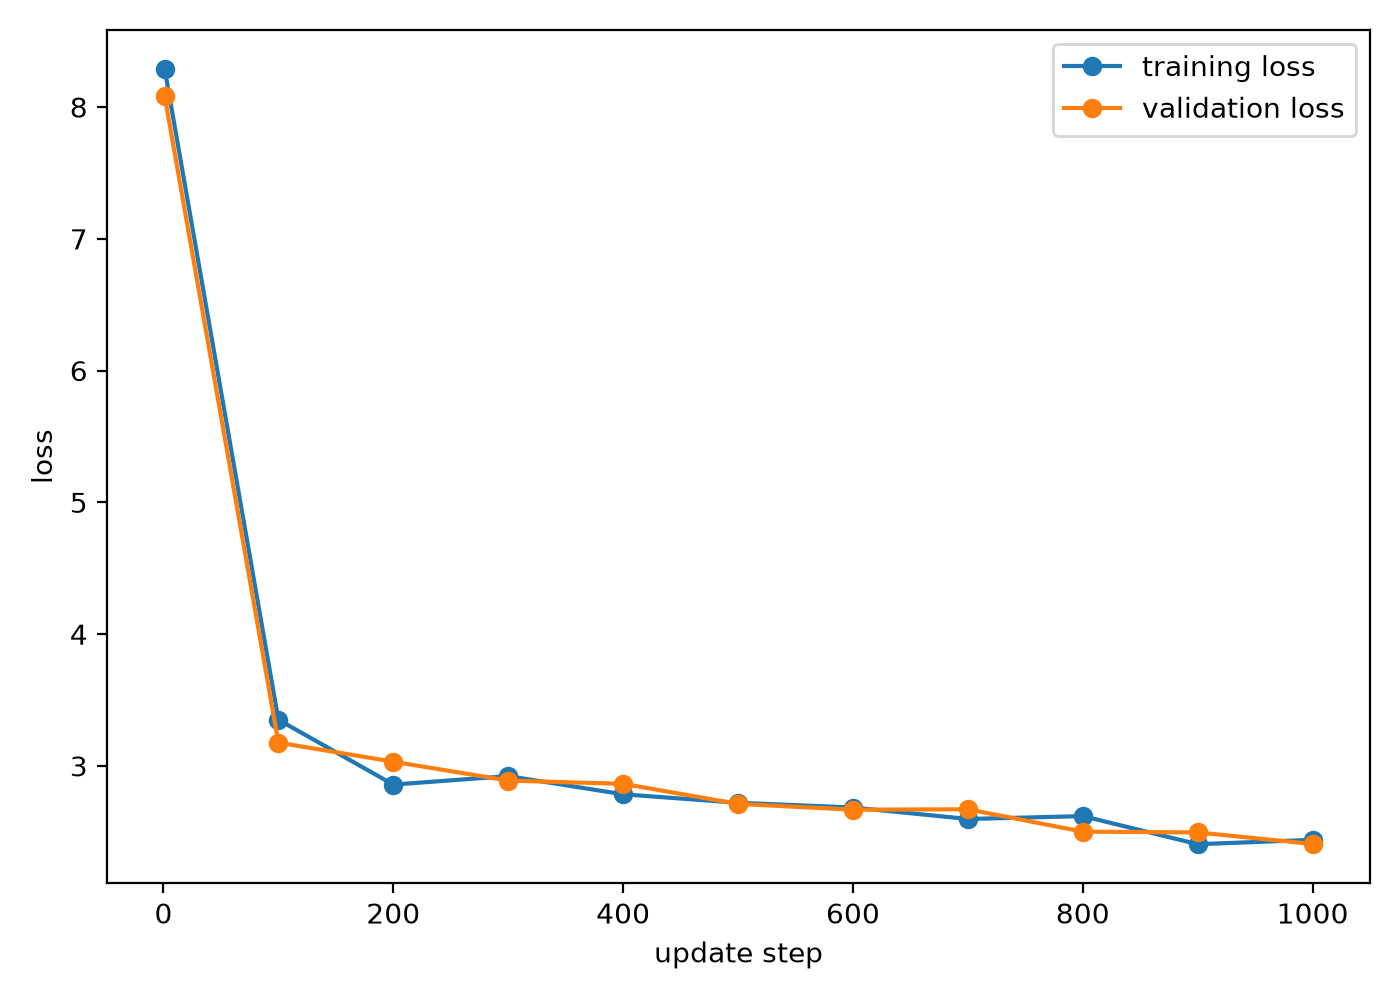
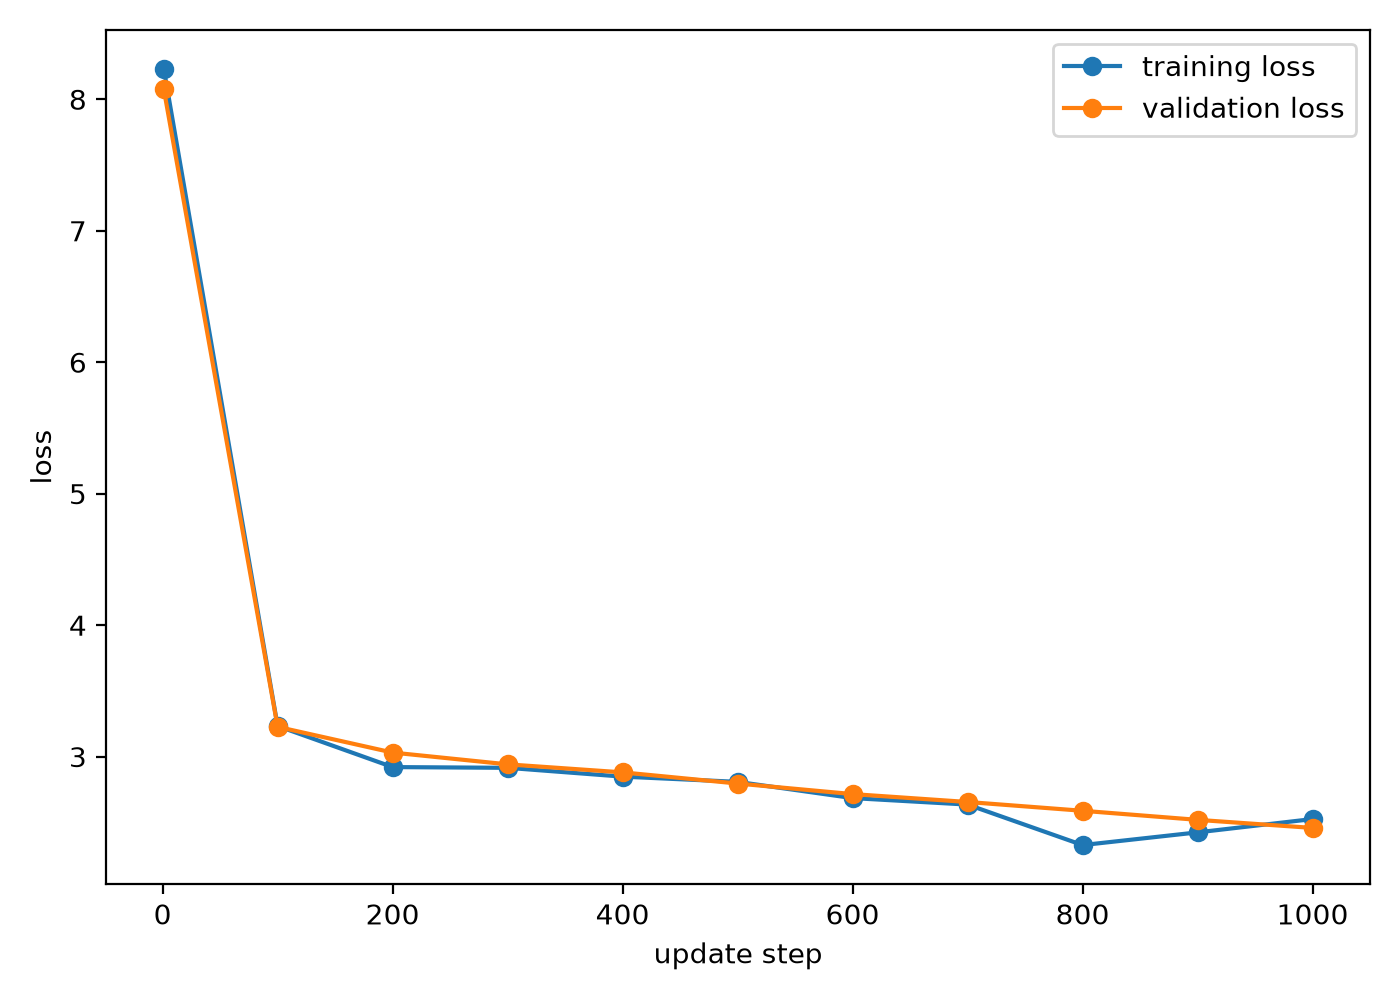
updated to use a set seed for testing. changed documentation accordingly

diff --git a/src/final_project/assignment3_slm_files/slm.py b/src/final_project/assignment3_slm_files/slm.py
@@ -2,6 +2,7 @@
 # Small Language Model Skeleton
 
 from pathlib import Path
+import random
 # for importing the data for training
 import numpy as np
 import matplotlib.pyplot as plt
@@ -17,9 +18,10 @@ from final_project.morpheme_tokenizer import MorphemeTokenizer
 #numMerges - int - number of BPE merges
 #bpeTrainStories - int or None - number of training stories to use for BPE
 #trainStoryLimit - int or None - number of training stories to keep
+#seed - int - random seed for the train/validation/test split
 #return - encoded training data, encoded validation data, and token maps
-def prepData(stories: list[str], numMerges: int, bpeTrainStories: int | None, trainStoryLimit: int | None) -> tuple[list[list[int]], list[list[int]], dict[str, int], dict[int, str]]:
-  trainStories, validationStories, testStories = splitStories(stories)
+def prepData(stories: list[str], numMerges: int, bpeTrainStories: int | None, trainStoryLimit: int | None, seed: int) -> tuple[list[list[int]], list[list[int]], dict[str, int], dict[int, str]]:
+  trainStories, validationStories, testStories = splitStories(stories, seed=seed)
   if trainStoryLimit is not None: trainStories = trainStories[:trainStoryLimit]
 
   bpeStories = trainStories
@@ -54,9 +56,12 @@ def prepData(stories: list[str], numMerges: int, bpeTrainStories: int | None, tr
 #contextSize - int - context length
 #evalIters - int - number of batches to average over
 #device - torch device - device on which tensors should be stored
+#seed - int - random seed for picking the batches
 #return - float - average loss over sampled batches
-def estimateLoss(model: TransformerLM, data: list[list[int]], batchSize: int, contextSize: int, evalIters: int, device: torch.device) -> float:
-  rng = np.random.default_rng()
+def estimateLoss(model: TransformerLM, data: list[list[int]], batchSize: int, contextSize: int, evalIters: int, device: torch.device, seed: int) -> float:
+  # a fresh generator with the same seed on every call, so each
+  # evaluation scores the model on the same validation batches
+  rng = np.random.default_rng(seed)
   # TransformerLM is a subclass of Torch
   # so the eval method is coming from that.
   model.eval()
@@ -85,10 +90,11 @@ def estimateLoss(model: TransformerLM, data: list[list[int]], batchSize: int, co
 #device - torch device - device on which tensors should be stored
 #evalInterval - int - number of updates between loss estimates
 #evalIters - int - number of batches to average for validation loss
+#seed - int - random seed for picking the batches
 #return - list of dicts - training and validation losses over time
-def train(model: TransformerLM, trainData: list[list[int]], validationData: list[list[int]], steps: int, batchSize: int, contextSize: int, learningRate: float, device: torch.device, evalInterval: int = 100, evalIters: int = 5) -> list[dict[str, float]]:
+def train(model: TransformerLM, trainData: list[list[int]], validationData: list[list[int]], steps: int, batchSize: int, contextSize: int, learningRate: float, device: torch.device, seed: int, evalInterval: int = 100, evalIters: int = 5) -> list[dict[str, float]]:
   optimizer = torch.optim.AdamW(model.parameters(), lr=learningRate)
-  rng = np.random.default_rng(123)
+  rng = np.random.default_rng(seed)
   history: list[dict[str, float]] = []
 
   for step in range(steps):
@@ -110,7 +116,7 @@ def train(model: TransformerLM, trainData: list[list[int]], validationData: list
     optimizer.step()
 
     if step == 0 or (step + 1) % evalInterval == 0:
-      validationLoss = estimateLoss(model, validationData, batchSize, contextSize, evalIters, device)
+      validationLoss = estimateLoss(model, validationData, batchSize, contextSize, evalIters, device, seed)
       
       # step + 1 because it
       # starts at 0
@@ -225,8 +231,23 @@ def runShapeTest() -> None:
 ### Main ###
 ############
 def main() -> None:
-  torch.manual_seed(123)
-  device = torch.device("cuda" if torch.cuda.is_available() else "mps" if torch.backends.mps.is_available() else "cpu")
+  # one seed for every random choice: the story split, model weight
+  # initialization, training and validation batches, and sampling
+  seed = 123
+  random.seed(seed)
+  np.random.seed(seed)
+  torch.manual_seed(seed)  # also seeds CUDA and MPS
+
+  # GPUs (CUDA, MPS) can add floating point numbers in a different
+  # order on each run, so the losses drift apart after a few hundred
+  # steps even with the same seed. The CPU gives the exact same
+  # numbers every run. Set this to False to train on a GPU instead.
+  deterministic = True
+  if deterministic:
+    device = torch.device("cpu")
+    torch.use_deterministic_algorithms(True)
+  else:
+    device = torch.device("cuda" if torch.cuda.is_available() else "mps" if torch.backends.mps.is_available() else "cpu")
 
   dataPath = str(Path(__file__).resolve().parents[2] / "data" / "tinyStories.jsonl")
   maxStories: int = 1000
@@ -259,7 +280,7 @@ def main() -> None:
       if maxStories is not None: stories = stories[:maxStories]
     else: stories = loadStoriesFromJsonl(dataPath, maxStories=maxStories)
 
-    trainStoriesCount, validationStoriesCount, testStoriesCount = splitStories(stories)
+    trainStoriesCount, validationStoriesCount, testStoriesCount = splitStories(stories, seed=seed)
 
     print(f"training stories: {len(trainStoriesCount)}")
     print(f"validation stories: {len(validationStoriesCount)}")
@@ -268,7 +289,8 @@ def main() -> None:
     trainData, validationData, tokenToID, idToToken = prepData(stories,
                                                                numMerges=numMerges,
                                                                bpeTrainStories=bpeTrainStories,
-                                                               trainStoryLimit=trainStories)
+                                                               trainStoryLimit=trainStories,
+                                                               seed=seed)
 
   # Set up the Transformer model
   if True:
@@ -293,6 +315,7 @@ def main() -> None:
                     contextSize=contextSize,
                     learningRate=learningRate,
                     device=device,
+                    seed=seed,
                     evalInterval=evalInterval,
                     evalIters=evalIters)
 

diff --git a/README.md b/README.md
@@ -24,7 +24,47 @@ Calling `.parse()` on every word is too slow, so the tokenizer works like this:
 4. **Tokenize text** by splitting it into sentences (NLTK `sent_tokenize`) and wrapping each one in `<s>` … `</s>`. Each word is split into morphemes with its original casing kept, and punctuation becomes its own token.
 5. **Words not in the database** are kept whole for now (`handleUndefined`). They are added to the dictionary and saved.
 
-> **Note:** The next two sections ("Segmenting unknown words with an LLM" and "Using `MorphemeTokenizer` in the SLM") were written by an LLM to give direction for the implementation. They are suggestions, not decisions the team has made or code that exists yet, so check them before relying on them.
+### `MorphemeTokenizer` in the SLM (Harsh, commit `571a2a2`)
+
+`prepData` in [slm.py](src/final_project/assignment3_slm_files/slm.py) now tokenizes with `MorphemeTokenizer` instead of BPE:
+
+```python
+morphemeTokenizer = MorphemeTokenizer(str(Path(__file__).resolve().parents[3] / "data"))
+trainStories_tokens = morphemeTokenizer.tokenize(trainStories)
+validStories_tokens = morphemeTokenizer.tokenize(validationStories)
+```
+
+The rest of the pipeline is unchanged: `buildTokenMaps`, `encode`, `genBatch`, `train`, and `TransformerLM`. The existing `formatSample` already prints morpheme output correctly, because it only joins the tokens, turns `</s>` into a newline, and removes `</w>`, which never appears in morpheme output.
+
+Current state of the code:
+- **The BPE path was replaced, not kept behind a switch.** `learnBPE` and `tokenizeStories` are still imported, but nothing calls them. The `numMerges` and `bpeTrainStories` arguments to `prepData` are now unused. To get a BPE baseline, we have to go back to the `slm.py` from before `571a2a2`.
+- **The data comes from two different folders.** The morpheme dictionary is read from the repo-root `data/` folder (`parents[3]`). `main` still reads the stories from `src/data/tinyStories.jsonl` (`parents[2]`).
+
+### Reproducible runs
+
+All random choices in `slm.py` use one seed (`seed = 123` in `main`): the train/validation/test split, the model's starting weights, the training batches, the validation batches, and the sampling of generated text. Every validation estimate uses the same batches, so the validation losses at different steps are measured on the same text.
+
+By default the SLM runs on the CPU with `torch.use_deterministic_algorithms(True)` (`deterministic = True` in `main`). Two runs give exactly the same output. The GPU (CUDA or MPS) isn't reproducible even with the seed: on MPS the losses started to differ by about 0.001 after step 200, because the GPU doesn't always add numbers in the same order. For this small model, the CPU is also slightly faster (about 10 s per run). Set `deterministic = False` to train on a GPU.
+
+### Morpheme run results
+
+See [results/morpheme_run.md](results/morpheme_run.md) for the full record and [the loss plot](results/slm_loss_morpheme.png). The run used 1,000 TinyStories split 800/100/100, a 2-layer model with 64-dimensional embeddings, 4 heads, a context size of 32, and 1,000 training steps.
+
+| Metric | Value |
+|---|---|
+| Vocabulary size | 3,146 |
+| Validation loss at step 1 | 8.08 (ln 3146 = 8.05) |
+| Validation loss at step 1000 | 2.46 |
+
+At step 1, the validation loss is close to the natural log of the vocabulary size, which is the loss of a uniform guess. That's what an untrained model should give.
+
+What the run showed:
+- **No overfitting.** The validation loss stays close to the training loss for all 1,000 steps.
+- **Some generated words attach the wrong ending to a root**, such as "scareed", "curiouss" and "relieveful". This likely comes from how roots ending in "e" are split: "scared" becomes `scare` + `d`, while "laughed" becomes `laugh` + `ed`. The past tense ends up as two different tokens, so the model can attach an ending to a root that needs a different one.
+- **The run can't be compared with BPE yet.** Per-token loss depends on the tokenizer. A fair comparison needs the same split for both tokenizers and a per-character measure such as bits per character (see [Compare fairly](#using-morphemetokenizer-in-the-slm) below).
+- **The number of `<unk>` tokens wasn't measured.** Words that appear only in validation become `<unk>`, which is easy to predict, so the morpheme model's loss may look better than it really is.
+
+> **Note:** The next two sections ("Segmenting unknown words with an LLM" and "Using `MorphemeTokenizer` in the SLM") were written by an LLM to give direction for the implementation. They are suggestions, not decisions the team has made, so check them before relying on them. Steps that are already in the code are marked **(done)**.
 
 ### Segmenting unknown words with an LLM
 
@@ -52,7 +92,7 @@ A cheap model is fine for this. TinyStories uses a small vocabulary, so the list
 
 The SLM in [src/final_project/assignment3_slm_files/](src/final_project/assignment3_slm_files/) already has the right shape for this. `MorphemeTokenizer.tokenize(stories)` returns one token list per story, with `<s>` … `</s>` around each sentence. That is the same format as `tokenizeStories(stories, merges)`, the BPE function `prepData` calls in [slm.py](src/final_project/assignment3_slm_files/slm.py). The transformer itself doesn't change: it only sees integer IDs and a `vocab_size`.
 
-1. **Swap the tokenizer in `prepData`.** Replace `learnBPE` and the two `tokenizeStories` calls:
+1. **(done)** **Swap the tokenizer in `prepData`.** Replace `learnBPE` and the two `tokenizeStories` calls:
    ```python
    from final_project.morpheme_tokenizer import MorphemeTokenizer
 
@@ -61,25 +101,31 @@ The SLM in [src/final_project/assignment3_slm_files/](src/final_project/assignme
    validStories_tokens = tokenizer.tokenize(validationStories)
    ```
    Everything after that stays the same: `buildTokenMaps`, `encode`, `genBatch`, `train`, and `TransformerLM(vocab_size=len(tokenToID), ...)`.
-2. **Add a `tokenizer` switch** (`"bpe"` or `"morpheme"`) to `prepData`/`main` rather than deleting the BPE path. Both models can then be trained with the same settings, which is what the comparison needs.
-3. **Fix the output formatting.** `formatSample` removes the BPE `</w>` marker. Morpheme tokens keep spaces and punctuation as their own tokens, so `"".join(tokens)` already rebuilds the text. Only `<s>`/`</s>` need handling. A `formatMorphemeSample` (or a branch in `formatSample`) covers this.
+2. **Add a `tokenizer` switch** (`"bpe"` or `"morpheme"`) to `prepData`/`main` and bring back the BPE path that `571a2a2` removed. Both models can then be trained with the same settings, which is what the comparison needs.
+3. **(done, no change needed)** **Output formatting.** The existing `formatSample` already works for morpheme tokens (see above).
 4. **Expect a different vocabulary and sequence length.**
-   - The vocabulary comes from every distinct morpheme, space, punctuation mark, and whole unknown word in the training set, not from a fixed merge count. Print `len(tokenToID)` for both tokenizers.
+   - The vocabulary comes from every distinct morpheme, space, punctuation mark, and whole unknown word in the training set, not from a fixed merge count. The morpheme run had 3,146 tokens. Print `len(tokenToID)` for both tokenizers.
    - Casing is kept, so `The` and `the` are different tokens. Lowercasing everything, or adding a `<cap>` marker token before capitalized words, would shrink the vocabulary.
    - Spaces are tokens, so a 32-token context covers fewer words than it does with BPE. Either raise `contextSize` or attach the space to the next word's first morpheme (`" un"`, `"happi"`, `"ness"`) to cut the sequence length roughly in half.
    - Validation morphemes that never appear in training map to `<unk>`. The LLM step above and the character fallback reduce how often that happens.
-5. **Compare fairly.** Raw cross-entropy per token isn't comparable across tokenizers, because the tokens differ in size. Report **bits per character**: total validation loss (in nats) ÷ number of characters in the validation text ÷ ln 2. Use the same stories, split seed, model size, and training steps for both runs.
+5. **Compare fairly.** Raw cross-entropy per token isn't comparable across tokenizers, because the tokens differ in size. Report **bits per character**: total validation loss (in nats) ÷ number of characters in the validation text ÷ ln 2. Use the same stories, split seed, model size, and training steps for both runs. **(seed done)**: `slm.py` now passes one seed to the split and to every other random choice (see [Reproducible runs](#reproducible-runs)).
    - **Add a morpheme-heavy test set.** Besides the random TinyStories split, pick or build test data where a large share of words are found in the morpheme dictionary. Good candidates are words with clear prefixes and suffixes (`un-`, `re-`, `-ness`, `-ful`, `-ly`). A simple filter: keep the stories or sentences where most words are in `dictionary.json` and split into two or more morphemes. The best case is words whose morphemes appear in training but whose full word does not (training has `kind` and `-ness`, the test set has `kindness`). This is where the morpheme model should do best, because BPE has no reason to split such a word at its real boundaries.
    - Report results on **both** test sets. The random split shows how the model does on ordinary text. The morpheme-heavy set shows the case where morphemes should help. On its own, a test set picked to favor morphemes would overstate the benefit, so it shouldn't be the only result.
-6. **Check the data path.** `slm.py` reads `Path(__file__).resolve().parents[2] / "data"`, which resolves to `src/data/`, not the repo-root `data/` folder. Use `parents[3]` so the stories and the morpheme dictionary live in the same git-ignored `data/` folder.
+6. **(half done)** **Check the data path.** The morpheme dictionary now uses `parents[3]`, which is the repo-root `data/` folder. `main` still reads the stories from `parents[2] / "data"`, which is `src/data/`. Change that to `parents[3]` as well, so the stories and the dictionary live in the same git-ignored `data/` folder.
 
 ## Plan
 
-**For next week:** plug `MorphemeTokenizer` into the SLM from a prior assignment (see [Using `MorphemeTokenizer` in the SLM](#using-morphemetokenizer-in-the-slm)).
+**Done:**
+- Plugged `MorphemeTokenizer` into the SLM from a prior assignment and recorded a run (see [Morpheme run results](#morpheme-run-results)).
+- Seeded every random choice and made runs reproducible on the CPU (see [Reproducible runs](#reproducible-runs)).
+
+**Next:**
+- Bring back BPE behind a `tokenizer` switch and report bits per character, so the two tokenizers can be compared with the same seed.
+- Count how many validation tokens become `<unk>`.
+- Look at how the tokenizer splits roots ending in "e" (`scare` + `d` vs. `laugh` + `ed`).
 
 **Future steps:**
 - Use an LLM to segment words the database can't resolve (see [Segmenting unknown words with an LLM](#segmenting-unknown-words-with-an-llm)).
-- Compare a morpheme-based model with a token-based (BPE) model.
 - Try architecture tweaks.
 
 ## Setup
@@ -100,4 +146,10 @@ The project uses **[uv](https://docs.astral.sh/uv/)**, a fast Python package and
   python -c "import nltk; nltk.download('punkt_tab')"
   ```
 - Run a script: `uv run python src/final_project/morpheme_library_testing.py`. The first run downloads the morpheme database into `data/`.
+- Download TinyStories for the SLM (the command may print an error, but check `src/data/`, because the file is often downloaded anyway):
+  ```sh
+  mkdir -p src/data
+  uv run python -c "from final_project.assignment3_slm_files.tinyStoriesPipeline import downloadTinyStoriesPrefix; print(downloadTinyStoriesPrefix('src/data/tinyStories.jsonl', size=10000))"
+  ```
+- Train the SLM with the morpheme tokenizer: `uv run python src/final_project/assignment3_slm_files/slm.py`. The first run builds `data/dictionary.json`. The loss plot is saved as `slm_loss.png` in the folder you run it from.
 - Add a dependency: `uv add <package>`. This updates both `pyproject.toml` and `uv.lock`, so commit both files.

diff --git a/results/morpheme_run.md b/results/morpheme_run.md
@@ -12,54 +12,69 @@ uv run python -c "from final_project.assignment3_slm_files.tinyStoriesPipeline i
 
 You may get an error, but check in the data folder, it may have downloaded anyway.
 
-## Results
+## Run (November 17, 2026)
+
+This run uses `seed = 123` for every random choice in `slm.py`: the train/validation/test split, the model's starting weights, the training batches, the validation batches, and the sampling of generated text. It runs on the CPU with `torch.use_deterministic_algorithms(True)` (`deterministic = True` in `main`).
+
+**Running it twice gives exactly the same output.** We checked this by diffing the output of two runs. A run takes about 10 seconds on an Apple Silicon CPU.
+
+### Setup
+
+- **Data:** the first 1,000 stories of `src/data/tinyStories.jsonl`, split 800 / 100 / 100 into training, validation and test with seed 123.
+- **Model:** `TransformerLM` with `n_embed=64`, `n_head=4`, `n_layer=2` and a context size of 32.
+- **Training:** 1,000 steps of AdamW, batch size 16, learning rate 1e-3.
+- **Evaluation:** the training loss is from the single batch at that step. The validation loss is averaged over 5 batches every 100 steps. Every evaluation uses the same 5 validation batches, so the validation losses at different steps are measured on the same text.
+
+### Results
 
 | Metric | Value |
 |---|---|
-| Vocabulary size | 3,098 |
-| Final validation loss (step 1000) | 2.4073 |
+| Vocabulary size | 3,146 |
+| Validation loss at step 1 | 8.0781 (ln 3146 = 8.05, the loss of a uniform guess) |
+| Final validation loss (step 1000) | 2.4578 |
 
 | Step | Training loss | Validation loss |
 |---|---|---|
-| 1 | 8.2905 | 8.0858 |
-| 100 | 3.3502 | 3.1763 |
-| 200 | 2.8580 | 3.0317 |
-| 300 | 2.9222 | 2.8885 |
-| 400 | 2.7843 | 2.8638 |
-| 500 | 2.7201 | 2.7115 |
-| 600 | 2.6841 | 2.6675 |
-| 700 | 2.5970 | 2.6705 |
-| 800 | 2.6189 | 2.5008 |
-| 900 | 2.4055 | 2.4950 |
-| 1000 | 2.4389 | 2.4073 |
+| 1 | 8.2316 | 8.0781 |
+| 100 | 3.2327 | 3.2263 |
+| 200 | 2.9206 | 3.0308 |
+| 300 | 2.9149 | 2.9413 |
+| 400 | 2.8479 | 2.8803 |
+| 500 | 2.8081 | 2.7955 |
+| 600 | 2.6847 | 2.7151 |
+| 700 | 2.6354 | 2.6550 |
+| 800 | 2.3273 | 2.5881 |
+| 900 | 2.4239 | 2.5191 |
+| 1000 | 2.5252 | 2.4578 |
 
 ![Training and validation loss](slm_loss_morpheme.png)
 
-## Generated Samples
+### Generated samples
 
 Each sample starts from `<s>` and generates 50 tokens. Line breaks are sentence ends.
 
 ```text
 sample 1:
-Jill wanted the journey momes.
-She want to it to with break play any.
-She saw the l startn like."
+Lily said, a big so friend.
+iming Tom to be mom she skip and caught the sea and hurt it had Mr.
+He
 sample 2:
-Heryside you fell the new park for him.
-They will were loud so !"
-Ben laughd and held welcome, there are
+because it couldn't playdy on him.
+Lily ran like his shocked on a time with ear to Lily things it.
+She
 sample 3:
-He look.
-They noise was not Gotcha!"
-The Maryped you dough head the adventure to play name're him."
-She said
+It scareed to the rain dancing, "I Lila sending can can showed.
+A not see for the living, but Timmy bad.
 sample 4:
-He mom for see.
-His were old card for not feel inusing and pocket to tell all the ball.
-She said, "
+The little water laughed to do animals him for his relieveful.
+He saw she curiouss, trouble orange was red why sees
 sample 5:
-She feed with luggages lunch."
-She the little mom!
-"Let's be safe fire dinner?""
-The tears, there said a
+Doething Lila felt fingerr, wear like the cat and importcareful they smiled in she in the sweet.
+He tower me to
 ```
+
+### Notes
+
+- **The GPU isn't reproducible, even with a seed.** On the Mac GPU (MPS), two runs had the same split, vocabulary and losses up to step 200. After that the losses differed by about 0.001 and the generated samples were different. This is because the GPU doesn't always add floating point numbers in the same order. The CPU doesn't have this problem, and for a model this small it's also slightly faster (about 10 s on CPU against about 14 s on MPS). Setting `deterministic = False` in `main` goes back to the GPU.
+- **Some generated words join a root with the wrong ending**, such as "scareed", "curiouss", "fingerr" and "relieveful". This likely comes from how roots ending in "e" are split: "scared" becomes `scare` + `d`, while "laughed" becomes `laugh` + `ed`.
+- **No overfitting.** The validation loss stays close to the training loss for all 1,000 steps.
